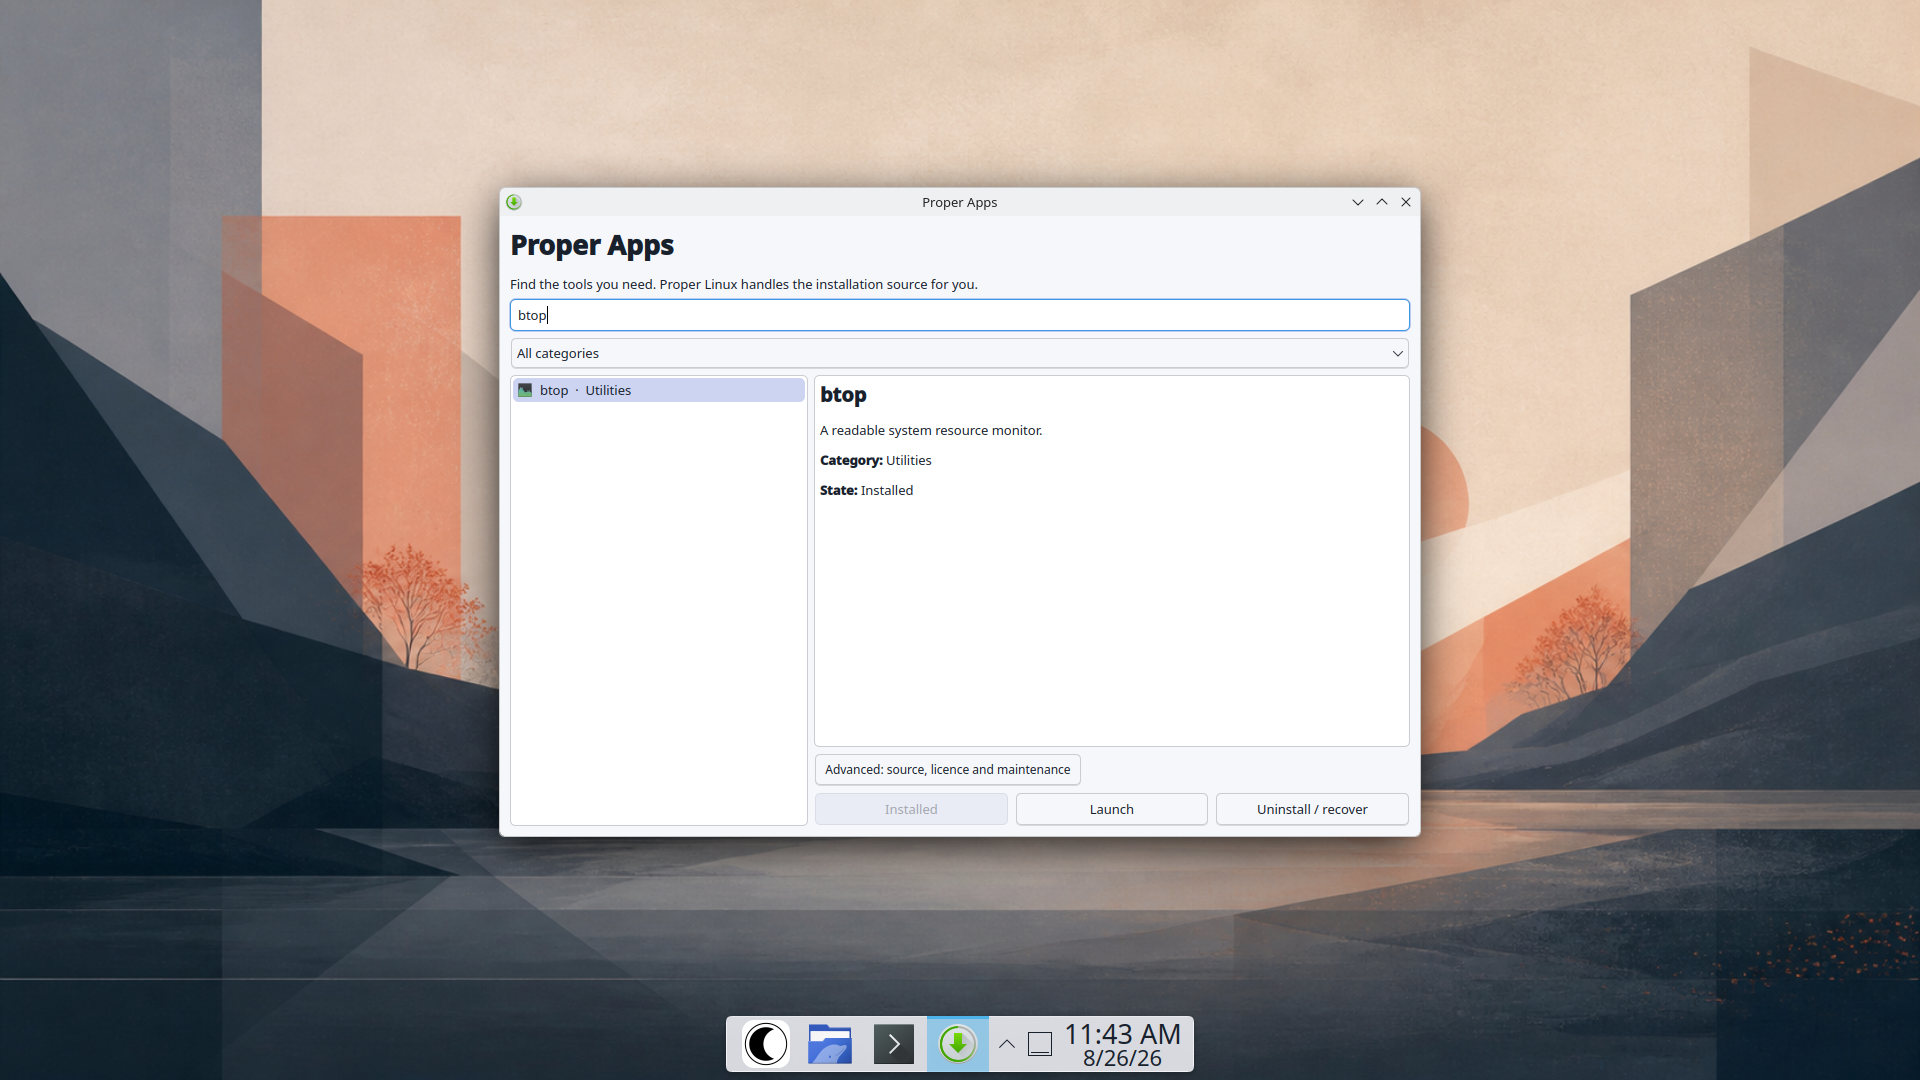
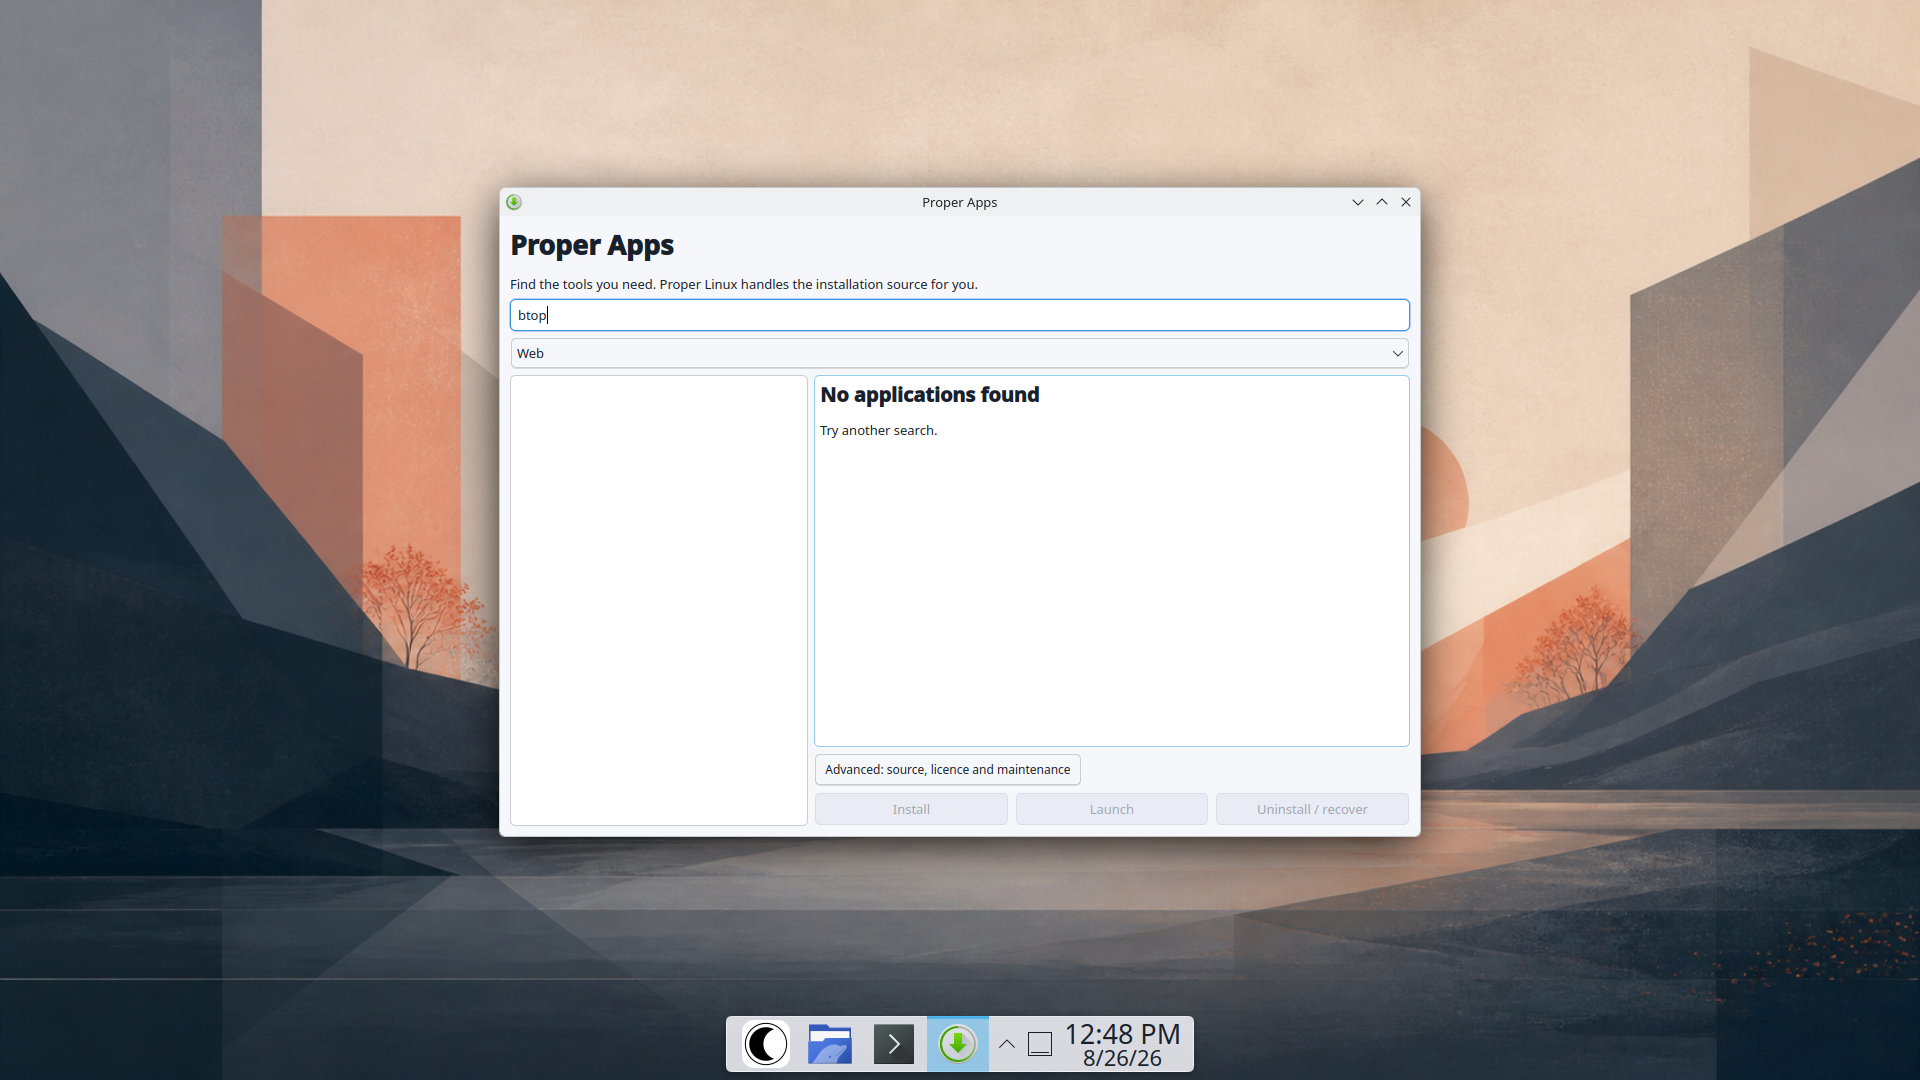
Recapture final3 Proper Apps catalogue evidence

diff --git a/docs/PHASE4-5-STATUS.md b/docs/PHASE4-5-STATUS.md
@@ -18,14 +18,14 @@ Proper Apps now presents bounded operation progress and a restrained technical-d
 
 ## Authoritative final-ISO evidence
 
-All evidence in `docs/evidence/checkpoint4-final/` must be captured from the ISO and disposable guest identified above. The terminal captures below are final3; the earlier Proper Apps captures remain clearly identified for recapture and are not yet claimed as final3 evidence. Current capture:
+All evidence in `docs/evidence/checkpoint4-final/` must be captured from the ISO and disposable guest identified above. Items 1–6 and 14–16 are final3 captures; operation captures 8–13 still require final3 recapture before this package can be called consolidated.
 
[15 lines of base64/hex data omitted]
@@ -49,7 +49,7 @@ Checkpoint 4 is not PM-approved. Do not begin Phase 6. Continue the single fresh
 
 ## Known defects
 
-- P2: all Proper Apps captures must be recaptured from final3 after the terminal-only rebuild so the package has one authoritative ISO. The final3 guest verified the widened retained dropdown and a readable `btop` session; AI-agent launch and other retained desktop interactions remain open.
+- P2: final3 operation captures 8–13 and the 200% inspection still need recapture so the package has one authoritative ISO. The final3 guest verified the widened retained dropdown and a readable `btop` session; AI-agent launch and other retained desktop interactions remain open.
 
 ## PM handoff request
 
